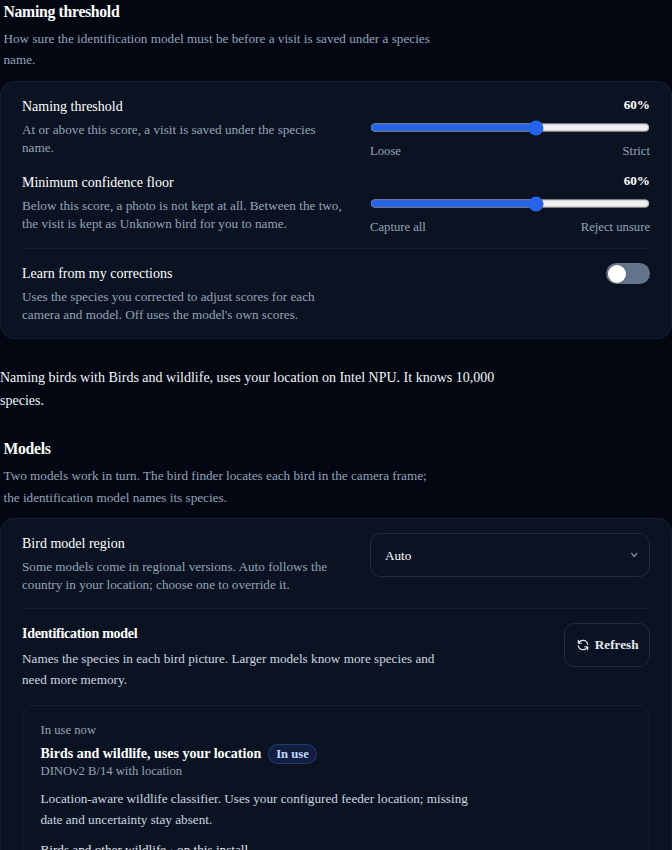
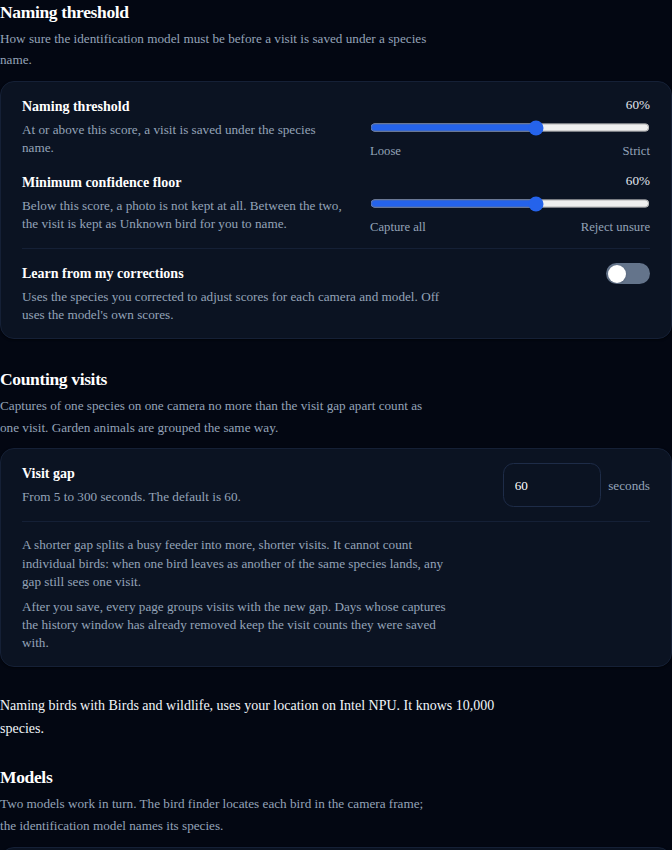
Refresh Settings documentation screenshots for seven sections

diff --git a/docs/images/README.md b/docs/images/README.md
@@ -98,15 +98,15 @@ example counts or runtime values into product guarantees.
 | `settings-garden-cameras.png` | Garden animal settings under Beta features in setup order: steps, the Garden camera summary, labels, proposal threshold, Garden models, automatic naming, notifications and capture outcomes. Refreshed 31 October 2026 |
 | `garden-review.png` | Owner review prototype, separate views and first-capture guidance |
 | `garden-record.png` | A Garden record: Red fox, the animal crop, two capture thumbnails from its visit and the species and model controls. Not made by the capture script; it comes from the Garden browser test (`apps/ui/browser-tests/garden-explorer.spec.ts`) |
-| `settings-map.png` | The six Settings sections and the setup-wizard entry point. Refreshed 18 November 2026 |
-| `settings-connection.png` | Cameras & connection: Frigate, the MQTT broker with its test, and the Cameras to watch list. Refreshed 18 November 2026 |
-| `settings-detection.png` | Identifying birds: the naming threshold card, the status line and the model in use. Refreshed 18 November 2026 |
-| `model-manager-dino.png` | The DINO model in use, its memory estimate and location guidance. Refreshed 18 November 2026 |
-| `settings-integrations.png` | The BirdNET-Go card, in Cameras & connection under More options. Refreshed 18 November 2026 |
-| `settings-notifications.png` | Notifications: the delivery sentence and the channels. Refreshed 18 November 2026 |
-| `settings-security.png` | Access & privacy: sign-in and public access. Refreshed 18 November 2026 |
-| `settings-data.png` | Storage & upkeep: history retention and the Photos and video card with an example measurement. Refreshed 18 November 2026 |
-| `settings-media-retention.png` | The Photos and video card in Storage & upkeep, with the per-species limits opened. Refreshed 18 November 2026 |
+| `settings-map.png` | The seven Settings sections and the setup-wizard entry point. Refreshed 22 November 2026 |
+| `settings-connection.png` | Cameras & connection: Frigate, the MQTT broker with its test, and the Cameras to watch list. Refreshed 22 November 2026 |
+| `settings-detection.png` | Identifying birds: the naming threshold card, the status line and the model in use. Refreshed 22 November 2026 |
+| `model-manager-dino.png` | The DINO model in use, its memory estimate and location guidance. Refreshed 22 November 2026 |
+| `settings-integrations.png` | The BirdNET-Go card in Integrations. Refreshed 22 November 2026 |
+| `settings-notifications.png` | Notifications: the delivery sentence and the channels. Refreshed 22 November 2026 |
+| `settings-security.png` | Access & privacy: sign-in and public access. Refreshed 22 November 2026 |
+| `settings-data.png` | Storage & upkeep: history retention and the Photos and video card with an example measurement. Refreshed 22 November 2026 |
+| `settings-media-retention.png` | The Photos and video card in Storage & upkeep, with the per-species limits opened. Refreshed 22 November 2026 |
 | `settings-health.png` | System status and recorded visits in the What happened timeline |
 | `support-bundle.png` | Fresh diagnostics capture, issue notes and download controls |
 | `model-evaluation-compatibility.png` | A provider check only: fastest passing provider, typical time, provider checks in words and the files it wrote |

diff --git a/docs/setup/configuration.md b/docs/setup/configuration.md
@@ -5,7 +5,7 @@ supported [environment overrides](environment-variables.md) take precedence on r
 
 ## How Settings is laid out
 
-Settings is organised by the task you came to do, in six sections. On a wide screen they are listed
+Settings is organised by the task you came to do, in seven sections. On a wide screen they are listed
 in a rail beside the settings, so a section's first setting is at the top of the page; a **Skip to
 the settings** link moves keyboard focus past it. On a phone or a narrow window a **Settings
 section** list names the section you are in. A section holding unsaved changes is marked "unsaved"
